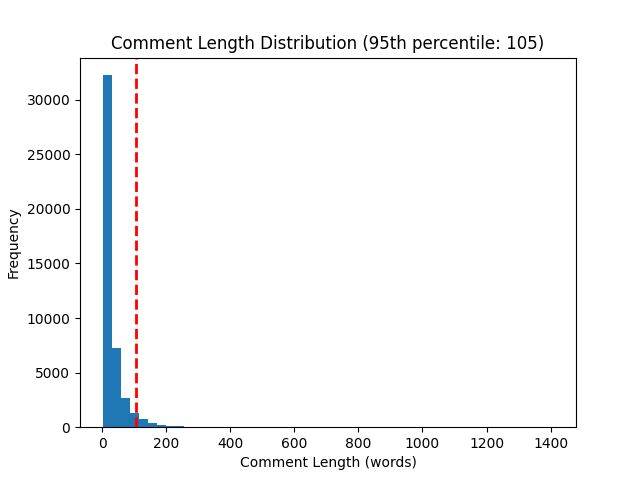
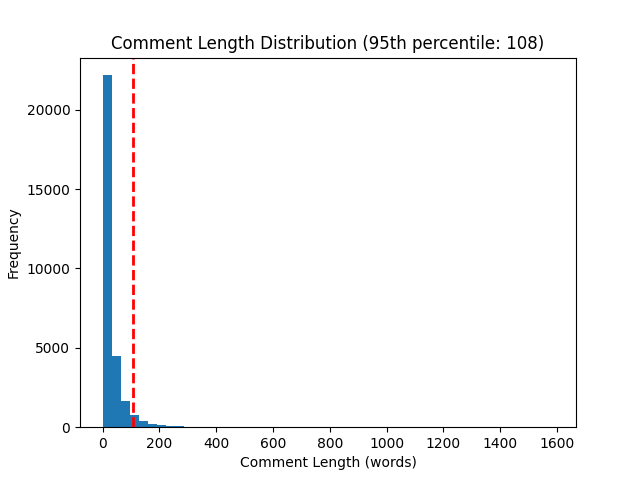
made some changes

diff --git a/app.py b/app.py
@@ -154,9 +154,8 @@ st.sidebar.subheader("Model Architecture")
 st.sidebar.markdown(f"""
 A Sequential Keras model:
 1.  **Embedding Layer:** vocab_size=15000, output_dim=128, input_length=60
-2.  **SpatialDropout1D:** rate=0.2
-3.  **LSTM Layer:** units=64, dropout=0.2, recurrent_dropout=0.2
-4.  **Dense Layer (Output):** units=3, activation='softmax'
+2.  **LSTM Layer:** units=64, dropout=0.2, recurrent_dropout=0.2
+3.  **Dense Layer (Output):** units=3, activation='softmax'
 """)
 
 st.sidebar.subheader("Preprocessing Pipeline")
